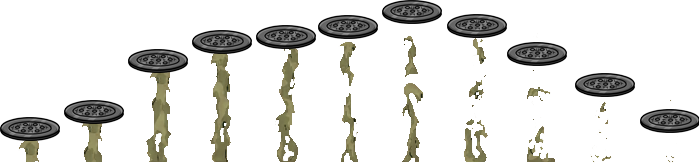
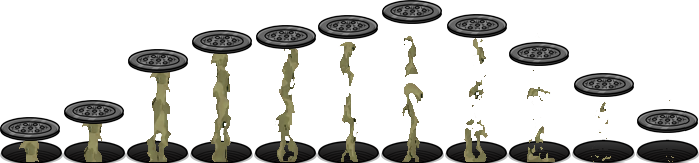
bug principal da escalada resolvido, melhorei animação do bueiro

diff --git a/jogo.py b/jogo.py
@@ -115,38 +115,43 @@ def predioatual(mimi, buildings):
             predio = buildings[i]
 
 
-def escalar(mimi, teclado):
-    global escalada, predio, olhar, andar, andaresq
+def escalar(mimi, teclado, buildings, janela):
+    global escalada, olhar, andar, andaresq, predio
 
-    if teclado.key_pressed("UP") and predio.x < mimi.x + mimi.width < predio.x + 30 and olhar == 0 and mimi.y > predio.y:
-        if escalada == 0:
-            andar = 0
-            andaresq = 0
-            aux = mimi.x + mimi.width
-            auy = mimi.y
-            mimi = Sprite("images/mimiescalada.png", 10)
-            mimi.set_total_duration(1000)
-            mimi.x = aux
-            mimi.y = auy
-        escalada = 1
+    for predios in buildings:
+        if 0 <= predios.x + predios.width <= janela.width:
+            if teclado.key_pressed("UP") and predios.x < mimi.x + mimi.width < predios.x + 30 and olhar == 0 and mimi.y > predios.y:
+                if escalada == 0:
+                    andar = 0
+                    andaresq = 0
+                    aux = mimi.x + mimi.width
+                    auy = mimi.y
+                    mimi = Sprite("images/mimiescalada.png", 10)
+                    mimi.set_total_duration(1000)
+                    mimi.x = aux
+                    mimi.y = auy
+                escalada = 1
+                predio = predios
 
-    if teclado.key_pressed("UP") and predio.x + predio.width - 50 < mimi.x < predio.x + predio.width and olhar == 1:
-        if escalada == 0:
-            andar = 0
-            andaresq = 0
-            aux = mimi.x
-            auy = mimi.y
-            mimi = Sprite("images/mimiescalaresq.png", 10)
-            mimi.set_total_duration(1000)
-            mimi.x = aux
-            mimi.y = auy
-        escalada = 1
+            if teclado.key_pressed("UP") and predios.x + predios.width - 50 < mimi.x < predios.x + predios.width and olhar == 1:
+                if escalada == 0:
+                    andar = 0
+                    andaresq = 0
+                    aux = mimi.x
+                    auy = mimi.y
+                    mimi = Sprite("images/mimiescalaresq.png", 10)
+                    mimi.set_total_duration(1000)
+                    mimi.x = aux
+                    mimi.y = auy
+                escalada = 1
+                predio = predios
 
     if escalada == 1 and teclado.key_pressed("UP") is False:
         aux = mimi.x
         auy = mimi.y
         if olhar == 1:
             mimi = Sprite("images/mimiparadaesq.png")
+            aux -= 10
         else:
             mimi = Sprite("images/mimiparada.png", 1)
         mimi.x = aux
@@ -161,21 +166,22 @@ def escalar(mimi, teclado):
             auy = predio.y
             if olhar == 1:
                 mimi = Sprite("images/mimiparadaesq.png")
+                aux -= 10
             else:
                 mimi = Sprite("images/mimiparada.png", 1)
             mimi.x = aux
             mimi.y = auy
             mimi.set_total_duration(1000)
-        if teclado.key_pressed("UP") is False:
             escalada = 0
-
-
+    if teclado.key_pressed("UP") is False:
+        escalada = 0
+        
     return mimi
 
 
 def topodopredio(mimi, janela):
     global chao, predio
-    if mimi.y <= predio.y and predio.x < mimi.x < predio.x + predio.width:
+    if mimi.y <= predio.y and predio.x - 10 < mimi.x < predio.x + predio.width:
         chao = predio.y
     else:
         chao = janela.height - 100
@@ -326,7 +332,7 @@ def explodebueiro(bueiro):
     auy = bueiro.y
     bueiro = Sprite("images/bueiroegeiser.png", 11)
     bueiro.x = aux
-    bueiro.y = auy - 130
+    bueiro.y = auy - 135
     bueiro.set_total_duration(1000)
 
     return bueiro
@@ -623,7 +629,7 @@ def jogo(janela):
         mimi.draw()
         mimi.update()
         mimi = mov_mimi(mimi, teclado, speed, janela)
-        mimi = escalar(mimi, teclado)
+        mimi = escalar(mimi, teclado, buildings, janela)
         mimi = mov_cenario(mimi, teclado, static, animated, buildings, speed, janela, cao, carros, filhotes)
 
         filhotes = mov_filhotes(filhotes)
@@ -675,7 +681,7 @@ def jogo(janela):
             auy = bueiro.y
             bueiro = Sprite("images/bueiroparado.png", 1)
             bueiro.x = aux
-            bueiro.y = auy + 130
+            bueiro.y = auy + 135
             bueiro.set_total_duration(1000)
             tempo_bueiro = 0
             rand_bueiro = uniform(3, 8)
